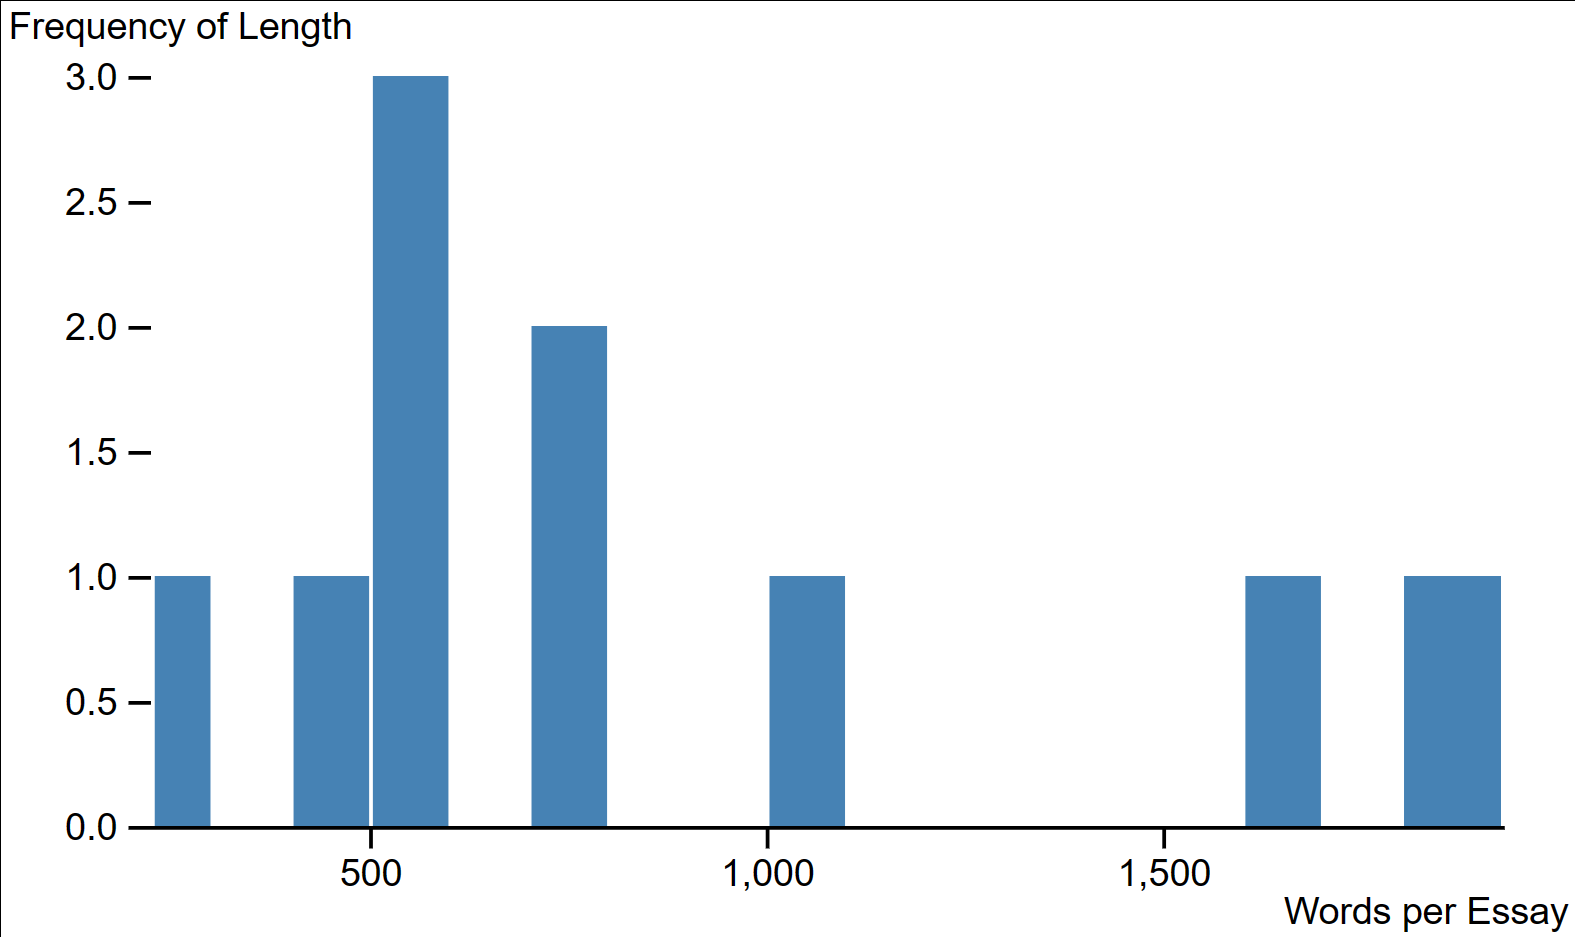
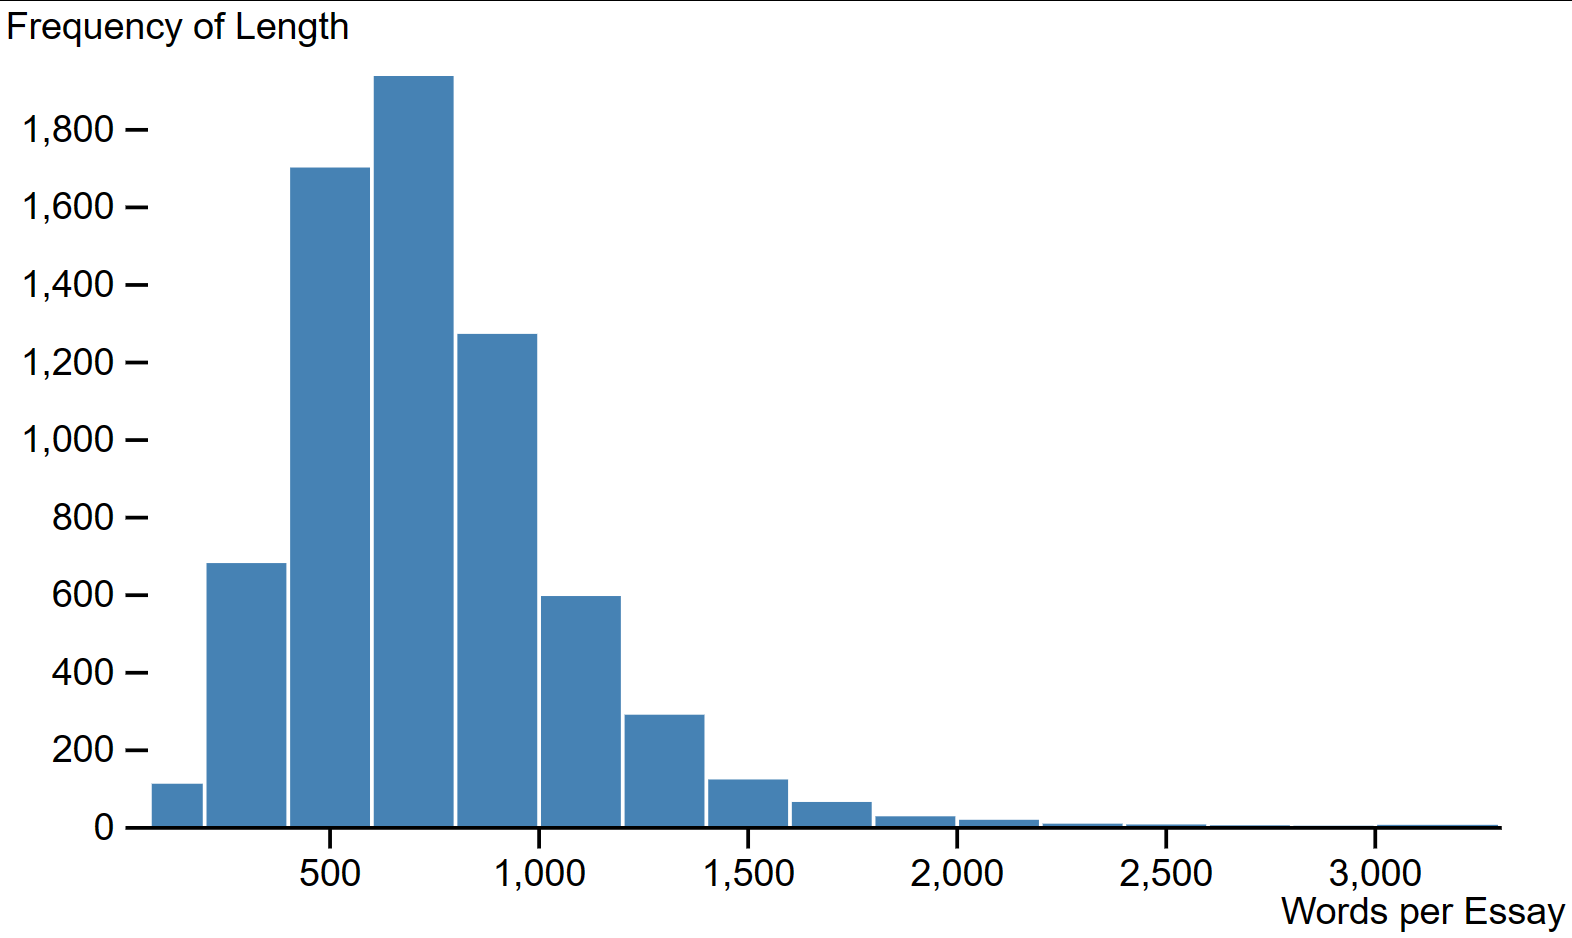
Change d3 data to training data

diff --git a/docs/d3_visualization.js b/docs/d3_visualization.js
@@ -14,7 +14,7 @@ console.log(graphContainer);
 //   dataViz(data);
 // });
 
-const response = fetch('https://raw.githubusercontent.com/GGC-DSA/Kaggle-2024/main/datasets/Official/test.json', {
+const response = fetch('https://raw.githubusercontent.com/GGC-DSA/Kaggle-2024/main/datasets/External/essay_lengths.json', {
       method: 'GET',
     })
       .then(response => {
@@ -33,9 +33,9 @@ const response = fetch('https://raw.githubusercontent.com/GGC-DSA/Kaggle-2024/ma
 
 function dataViz(data) {
   var lengths = [];
-  data.forEach(function (d) {
-    lengths.push(d.tokens.length);
-  });
+  for (const i in data) {
+    lengths.push(data[i])
+  };
   console.log(lengths);
 
   // Set the parameters for the histogram
